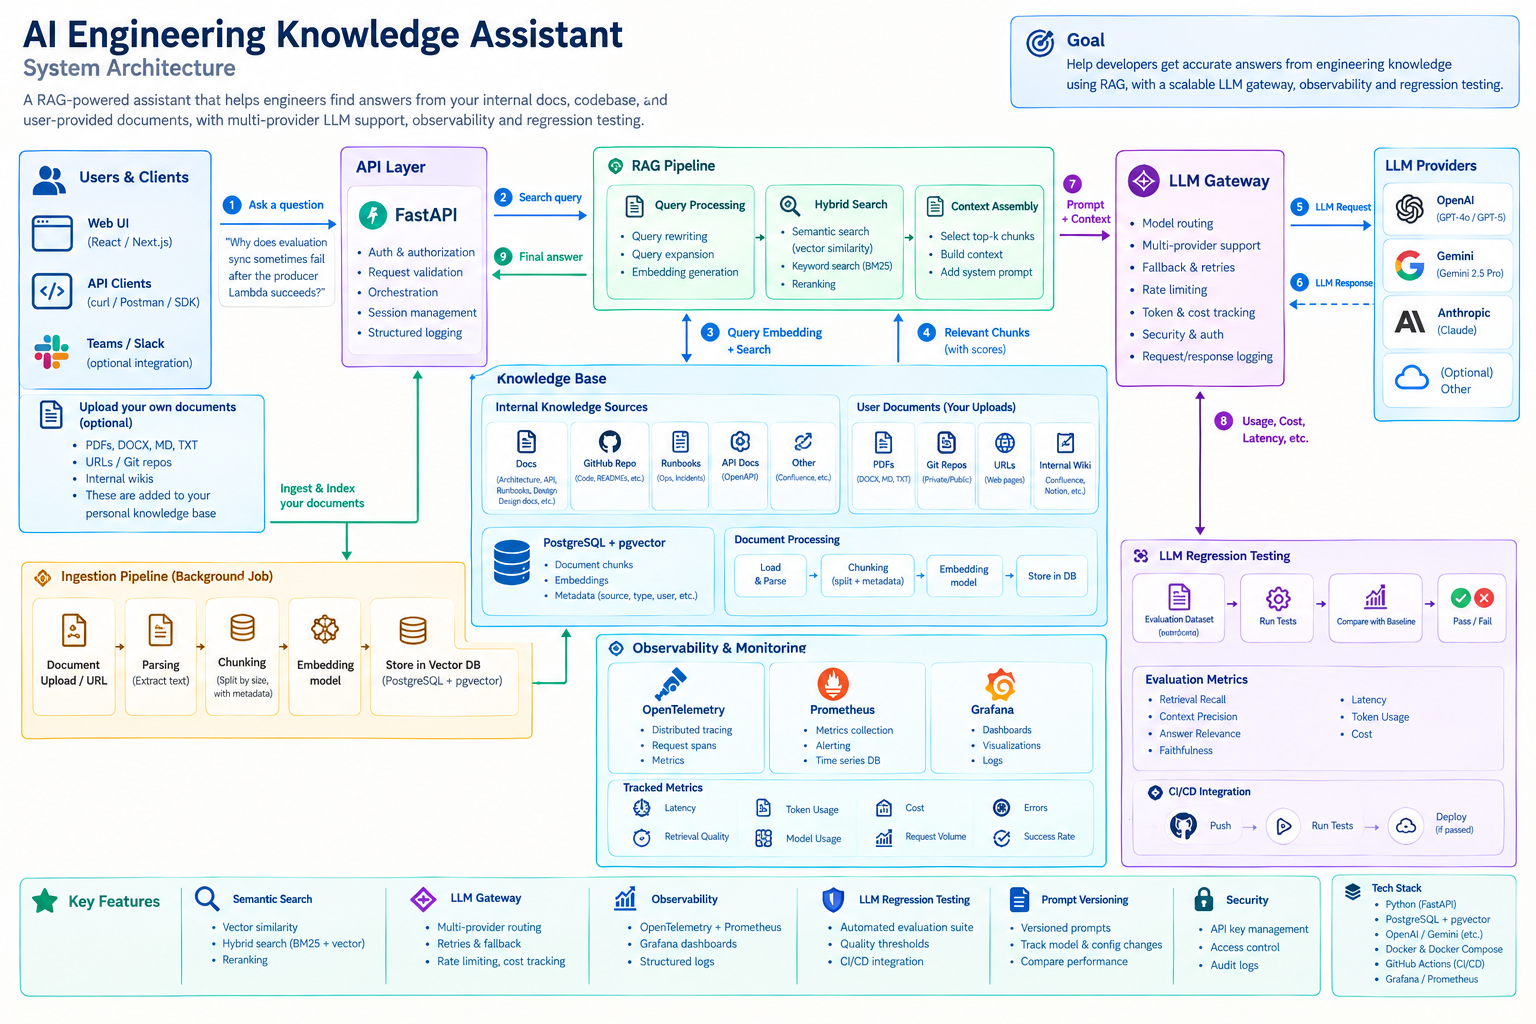
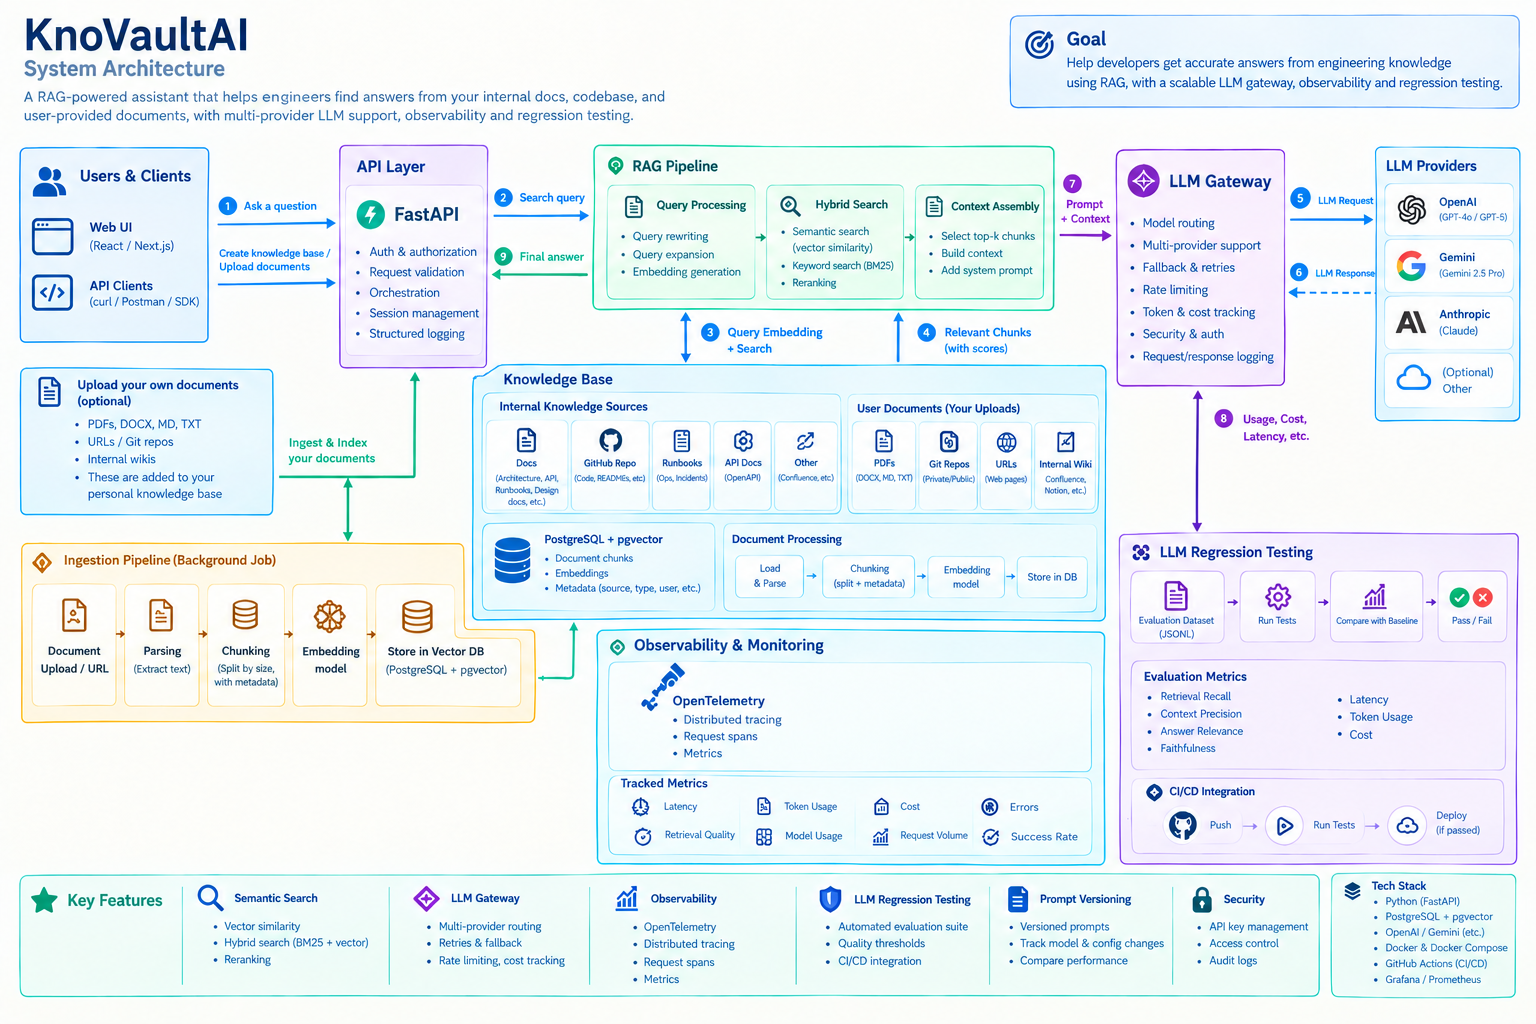
Update README.md for project architecture and tech stack; enhance document ingestion with text sanitization.
- Renamed project to KnoVaultAI and expanded README to include project architecture, demo video, and tech stack details.
- Improved document ingestion process by adding text sanitization for PostgreSQL compatibility.
- Updated frontend package-lock.json to specify Node.js engine version.

diff --git a/app/services/ingestion.py b/app/services/ingestion.py
@@ -14,6 +14,7 @@ from app.db.session import SessionLocal
 from app.ingestion.chunkers import get_chunker
 from app.ingestion.metadata_extractors import get_metadata_extractor
 from app.ingestion.parsers import get_parser
+from app.ingestion.sanitize import sanitize_text_for_postgres
 from app.models.document import Document
 from app.models.document_chunk import DocumentChunk
 
@@ -79,7 +80,7 @@ def ingest_document_sync(doc_id: int, file_content: bytes) -> None:
                 span.set_attribute("document.mime_type", mime_type)
 
                 parser = get_parser(mime_type)
-                text_content = parser.parse(content)
+                text_content = sanitize_text_for_postgres(parser.parse(content))
 
             with tracer.start_as_current_span("extract_metadata"):
                 metadata_extractor = get_metadata_extractor()

diff --git a/tests/unit/test_text_sanitize.py b/tests/unit/test_text_sanitize.py
@@ -1,0 +1,6 @@
+from app.ingestion.sanitize import sanitize_text_for_postgres
+
+
+def test_sanitize_text_for_postgres_strips_nul():
+    assert sanitize_text_for_postgres("hello\x00world") == "helloworld"
+    assert sanitize_text_for_postgres("ok") == "ok"

diff --git a/app/ingestion/sanitize.py b/app/ingestion/sanitize.py
@@ -1,0 +1,6 @@
+"""Normalize extracted text before Postgres persistence."""
+
+
+def sanitize_text_for_postgres(text: str) -> str:
+    """Remove NUL bytes; PostgreSQL text columns reject \\x00."""
+    return text.replace("\x00", "")

diff --git a/README.md b/README.md
@@ -1,16 +1,37 @@
-# KnovaultAI — AI Powered Knowledge Assistant
+# KnoVaultAI
 
-Production-style RAG knowledge base: upload documents, hybrid semantic + keyword search over **PostgreSQL + pgvector**, and grounded answers via **OpenRouter**.
+Production-style RAG knowledge assistant: upload documents, hybrid semantic and keyword search over **PostgreSQL + pgvector**, and grounded answers through an **OpenRouter** LLM gateway with pipeline observability.
 
-## Quick start (Docker)
+## Project architecture
+
+![KnoVaultAI architecture](docs/PROJECT_ARCHITECTURE.png)
+
+## Demo video
+
+[YouTube demo](https://www.youtube.com/watch?v=C8h9xeHbw98)
+
+## Tech stack
+
+- **Backend:** Python, FastAPI, SQLAlchemy, Alembic
+- **Frontend:** React 19, Vite, TypeScript, TanStack Query, Radix UI
+- **Data:** PostgreSQL 16, pgvector, hybrid semantic + full-text (RRF)
+- **ML / RAG:** sentence-transformers embeddings; PDF, DOCX, and other document parsing
+- **LLM:** OpenRouter gateway with env-based routing plugs
+- **Observability:** OpenTelemetry, Prometheus, Grafana (via Docker Compose)
+- **Infra / CI:** Docker Compose; GitHub Actions ([.github/workflows/ci.yml](.github/workflows/ci.yml))
+
+## Setup and run
+
+**Prerequisites:** Docker and Docker Compose; set `OPENROUTER_API_KEY` in `.env` for live RAG answers.
 
 ```bash
 cp .env.example .env
-# Set OPENROUTER_API_KEY in .env for real RAG answers
+# Set OPENROUTER_API_KEY in .env
 
 docker compose up --build -d
-docker compose exec fastapi_app alembic upgrade head
 ```
+
+After the stack is up, run database migrations once (see [Migrations](#migrations)).
 
 | Service | URL |
 |--------|-----|
@@ -19,20 +40,7 @@ docker compose exec fastapi_app alembic upgrade head
 | Frontend (dev) | http://localhost:5173 |
 | Grafana | http://localhost:3000 (admin/admin) |
 
-## Demo flow
-
-1. Open http://localhost:5173 and **Register** / **Login**.
-2. Create a **Knowledge base**.
-3. **Documents** tab: upload PDF, TXT, Markdown, or DOCX. Status moves `uploaded` → `parsing` → `indexing` → `completed` (list auto-refreshes while processing).
-4. **Ask** tab: question about your upload (requires at least one indexed document). Each answer shows **model**, **tokens**, **estimated cost**, and a **View pipeline** link.
-5. **Search** tab: inspect hybrid retrieval scores.
-6. **History** tab: past queries with pipeline traces (retrieval → LLM spans).
-
-## Query history and pipeline observability
-
-Each `/v1/rag` call persists a `query_executions` row and nested `pipeline_spans` (hybrid search, LLM gateway, etc.). The UI **History** tab lists past questions; opening a run shows an interactive **pipeline explorer** (Graph / Waterfall / Events / Raw) aligned with GodsEye-Dashboard—click a span node to inspect inputs, outputs, tokens, and routing metadata.
-
-The **LLM gateway auto-routes** between named plugs (`LLM_ROUTING_*` in `.env`) using **semantic similarity** from retrieval (not RRF fusion score), plus question length—no manual model picker in the UI.
+**First use:** open the frontend → register or log in → create a knowledge base → upload documents on the **Documents** tab → ask questions on the **Ask** tab.
 
 ## Environment variables
 
@@ -46,79 +54,6 @@ See [.env.example](.env.example). Important keys:
 - `OPENROUTER_API_KEY`, optional `OPENROUTER_MODEL` override
 - `LLM_ROUTING_DEFAULT_PLUG`, `LLM_ROUTING_QUALITY_PLUG`, `LLM_ROUTING_FAST_PLUG` — auto-routing
 - `LLM_ROUTING_STRONG_SIMILARITY_THRESHOLD` — minimum semantic similarity for strong/fast routing (default `0.35`)
-
-## Supabase (deploy / demo)
-
-Hybrid setup: **Docker Compose** keeps local Postgres + `STORAGE_BACKEND=local`. For a hosted demo, point the API at Supabase:
-
-1. Create a [Supabase](https://supabase.com) project.
-2. **Database → Extensions** → enable **`vector`**.
-3. **Storage** → create a **private** bucket (default name `documents`, or set `SUPABASE_STORAGE_BUCKET`).
-4. **Project Settings → Database** → copy the **direct** connection URI (port 5432) into `DATABASE_URL` with `?sslmode=require`.
-5. **Project Settings → API** → copy **Project URL** and **service role** key into `SUPABASE_URL` and `SUPABASE_SERVICE_ROLE_KEY` (API server only).
-6. Set `STORAGE_BACKEND=supabase` and run migrations once: `alembic upgrade head`.
-
-Uploaded files are stored under object keys `{kb_id}/{uuid}/{filename}` in the bucket; chunk embeddings remain in Postgres.
-
-## Try demo (hosted portfolio)
-
-Visitors use **Try demo** on the login page (passwordless JWT for a shared user). Upload and ingest are blocked for demo sessions (`can_upload: false` in JWT). You curate content by signing in with the **demo username and password** (same Supabase `DATABASE_URL` and storage from your machine).
-
-**Hosted API `.env`:** `DEMO_LOGIN_ENABLED=true`, `DEMO_USERNAME=demo`, `ALLOW_PUBLIC_REGISTRATION=false`.
-
-**Frontend build env:** `VITE_DEMO_LOGIN_ENABLED=true`, `VITE_ALLOW_REGISTRATION=false`.
-
-**Once per environment:**
-
-```bash
-alembic upgrade head
-DEMO_PASSWORD='your-strong-secret' python scripts/seed_demo_user.py
-```
-
-Then locally: log in as `demo` with that password, create knowledge bases, and upload documents—they appear for Try demo users.
-
-## Render (API) checklist
-
-**502 / “unable to handle this request”** means Render’s proxy cannot reach your app process.
-
-1. **Start command:** `uvicorn app.main:app --host 0.0.0.0 --port $PORT` (not `127.0.0.1`, not a fixed port).
-2. **Health check path:** `/v1/health` (liveness only; DB is `/v1/ready`).
-3. **Env values:** no surrounding `"` quotes in the Render dashboard (especially `DATABASE_URL`).
-4. **`DATABASE_URL`:** use Supabase **Session pooler** URI (Dashboard → Connect → Session mode) if `/v1/ready` shows IPv6 / “Network is unreachable” to `db.*.supabase.co`. User must be `postgres.<project-ref>`.
-5. **`OTEL_EXPORTER_OTLP_ENDPOINT`:** leave unset or empty on Render.
-6. **`SECRET_KEY`:** random string (e.g. `openssl rand -hex 32`); do not reuse the Supabase service role key.
-7. **RAM:** PyTorch + embeddings often need **Starter** (512MB free tier may OOM or never become ready). See [render.yaml](render.yaml).
-8. **Logs:** Render → Logs → look for `Out of memory`, `Killed`, or Python tracebacks on boot.
-
-After deploy: `curl -s https://YOUR-SERVICE.onrender.com/v1/health`
-
-## Render (frontend static site)
-
-1. **Backend CORS:** On the API service, set `CORS_ORIGINS` to your frontend URL (comma-separated), e.g.  
-   `https://knovaultai.onrender.com,http://localhost:5173`  
-   Use the **static site** URL once it exists (update and redeploy API if you add the frontend later).
-
-2. **New Static Site** (Render Dashboard → New → Static Site → same Git repo).
-
-   | Setting | Value |
-   |--------|--------|
-   | Root directory | `frontend` |
-   | Build command | `npm install && npm run build` |
-   | Publish directory | `dist` |
-
-3. **Environment variables** (build-time; required for production):
-
-   | Key | Example |
-   |-----|---------|
-   | `VITE_API_BASE_URL` | `https://YOUR-API.onrender.com/v1` |
-   | `VITE_DEMO_LOGIN_ENABLED` | `true` |
-   | `VITE_ALLOW_REGISTRATION` | `false` |
-
-4. **Deploy.** `public/_redirects` sends all routes to `index.html` for React Router.
-
-5. **Verify:** open the static URL → **Try demo** → dashboard loads; browser Network tab shows requests to `YOUR-API.onrender.com/v1/...` (not `/api` on the static host).
-
-**Alternatives:** Vercel/Netlify/Cloudflare Pages — same root `frontend`, same build env vars; add an SPA fallback (`/* → /index.html`) if the host does not read `_redirects`.
 
 ## Migrations
 
@@ -144,12 +79,3 @@ Requires indexed content and `OPENROUTER_API_KEY` for non-mock answers:
 make run-evals
 make save-baseline
 ```
-
-## Architecture notes
-
-- **Vectors** live in Postgres (`document_chunks.embedding`) with HNSW (cosine).
-- **Full-text** uses a generated `tsvector` column + GIN index.
-- **Retrieval** fuses semantic + keyword ranks with RRF.
-- **Ingestion** runs in FastAPI `BackgroundTasks` (parse → chunk → batch embed → persist).
-
-Refer to [docs/PROJECT_PLAN.md](docs/PROJECT_PLAN.md) for the long-term phased roadmap.
